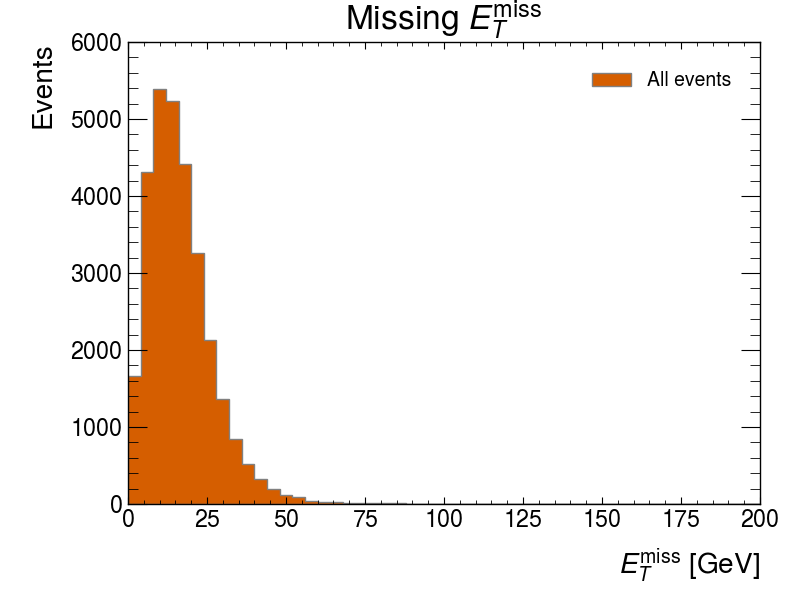
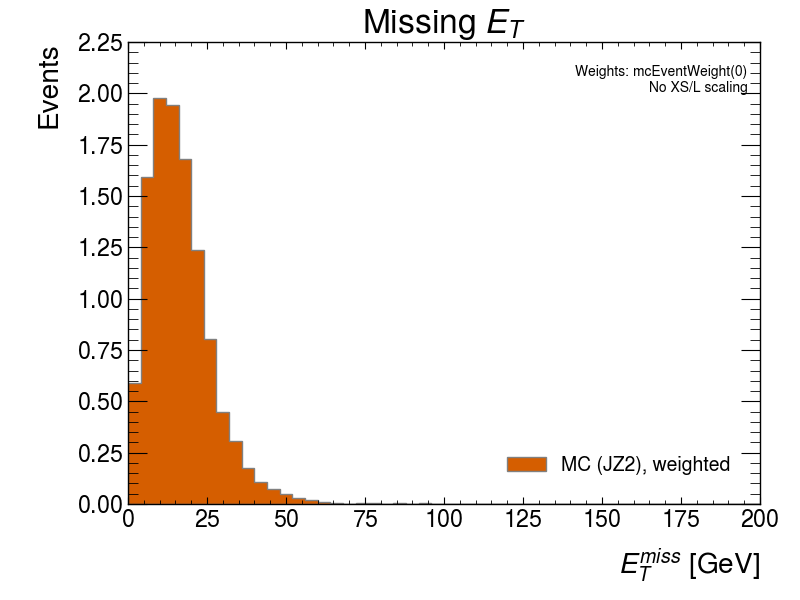
Update 00-missing-et and images from CI

diff --git a/00-missing-et.md b/00-missing-et.md
@@ -1,0 +1,205 @@
+# Plot the ETmiss of all events in the rucio dataset mc23_13p6TeV:mc23_13p6TeV.801167.Py8EG_A14NNPDF23LO_jj_JZ2.deriv.DAOD_PHYSLITE.e8514_e8528_a911_s4114_r15224_r15225_p6697.
+
+## Model gpt-5
+
+<details><summary>Run 1</summary>
+<div style="margin-left: 1em;">
+
+
+- Fetched only the quantities needed (missing transverse energy and MC event weight) from the requested Rucio dataset using ServiceX, converting MeV to GeV inside the query.
+- Used Awkward Array to hold and manipulate the returned data (no Python lists).
+- Applied per-event MC weights (EventInfo.mcEventWeight(0)) when filling the histogram. No cross section or luminosity scaling was applied since only a single MC dataset was requested.
+- Plotted the ETmiss distribution with Hist/mplhep and saved it to a PNG file.
+- Processed only 1 file (NFiles=1) to keep turnaround fast; you can increase this when ready.
+
+```python
+import awkward as ak
+import matplotlib.pyplot as plt
+import mplhep as hep
+from hist import Hist
+
+from func_adl_servicex_xaodr25 import FuncADLQueryPHYSLITE
+from servicex_analysis_utils import to_awk
+from servicex import deliver, ServiceXSpec, Sample, dataset
+
+# Build the query against PHYSLITE:
+# - Convert MeV -> GeV in the query (divide by 1000.0)
+base_query = FuncADLQueryPHYSLITE()
+query = (
+    base_query
+    .Select(lambda e: {
+        "met": e.MissingET().First().met() / 1000.0,
+        "mcw": e.EventInfo("EventInfo").mcEventWeight(0),
+    })
+)
+
+# Dataset DID provided by the user (copy carefully!)
+ds_name = (
+    "mc23_13p6TeV:mc23_13p6TeV.801167.Py8EG_A14NNPDF23LO_jj_JZ2.deriv."
+    "DAOD_PHYSLITE.e8514_e8528_a911_s4114_r15224_r15225_p6697"
+)
+
+# Deliver the data (use NFiles=1 for a quick turn-around)
+results = to_awk(
+    deliver(
+        ServiceXSpec(
+            Sample=[
+                Sample(
+                    Name="etmiss_fetch",
+                    Dataset=dataset.Rucio(ds_name),
+                    NFiles=1,
+                    Query=query,
+                )
+            ]
+        ),
+    )
+)
+
+data = results["etmiss_fetch"]
+
+# Awkward arrays holding the event-level ETmiss and per-event MC weight
+met = data.met     # [GeV]
+mcw = data.mcw     # per-event MC weight
+
+# Build a weighted histogram for ETmiss
+# Binning & range chosen as a reasonable default for MET
+h = (
+    Hist.new
+        .Reg(50, 0.0, 200.0, name="met", label=r"$E_T^{miss}$ [GeV]")
+        .Weight()
+)
+
+# Fill with weights; convert to NumPy for Hist backend while staying array-based (no Python lists)
+h.fill(met=ak.to_numpy(met), weight=ak.to_numpy(mcw))
+
+# Plot using ATLAS-like style
+plt.style.use(hep.style.ATLAS)
+fig, ax = plt.subplots()
+
+h.plot(histtype="fill", linewidth=1, edgecolor="gray", label="MC (JZ2), weighted")
+ax.legend()
+ax.set_xlabel(r"$E_T^{miss}$ [GeV]")
+ax.set_ylabel("Events")
+ax.set_title(r"Missing $E_T$")
+
+# Optional: annotate what weights were applied
+ax.text(
+    0.98, 0.95,
+    "Weights: mcEventWeight(0)\nNo XS/L scaling",
+    transform=ax.transAxes,
+    ha="right", va="top", fontsize=10
+)
+
+fig.savefig("etmiss.png")
+plt.close(fig)
+```
+### stdout:
+
+```text
+etmiss_fetch: Transform ━━━━━━━━━━━━━━━━━━━━━━━━━━━━━━━━━━━━━━━━ 1/1 00:21
+               Download ━━━━━━━━━━━━━━━━━━━━━━━━━━━━━━━━━━━━━━━━ 1/1 00:25
+**Success**
+
+```
+
+### stderr:
+
+```text
+Unable to find image 'gordonwatts/atlasplotagent:1.0.0' locally
+1.0.0: Pulling from gordonwatts/atlasplotagent
+59e22667830b: Pulling fs layer
+0f40319da806: Pulling fs layer
+081f96d6584f: Pulling fs layer
+8fdd7df8e834: Pulling fs layer
+2a1478e0415a: Pulling fs layer
+235451d01566: Pulling fs layer
+a0831920243c: Pulling fs layer
+4f4fb700ef54: Pulling fs layer
+ce8f13a8c0b6: Pulling fs layer
+8f2cf14ad14d: Pulling fs layer
+660b8664e6e1: Pulling fs layer
+eb522b4f7276: Pulling fs layer
+235451d01566: Waiting
+a0831920243c: Waiting
+4f4fb700ef54: Waiting
+ce8f13a8c0b6: Waiting
+660b8664e6e1: Waiting
+8f2cf14ad14d: Waiting
+8fdd7df8e834: Waiting
+2a1478e0415a: Waiting
+eb522b4f7276: Waiting
+0f40319da806: Verifying Checksum
+0f40319da806: Download complete
+081f96d6584f: Verifying Checksum
+081f96d6584f: Download complete
+8fdd7df8e834: Verifying Checksum
+8fdd7df8e834: Download complete
+2a1478e0415a: Verifying Checksum
+2a1478e0415a: Download complete
+59e22667830b: Verifying Checksum
+59e22667830b: Download complete
+a0831920243c: Verifying Checksum
+a0831920243c: Download complete
+4f4fb700ef54: Download complete
+ce8f13a8c0b6: Verifying Checksum
+ce8f13a8c0b6: Download complete
+660b8664e6e1: Verifying Checksum
+660b8664e6e1: Download complete
+eb522b4f7276: Download complete
+235451d01566: Verifying Checksum
+235451d01566: Download complete
+8f2cf14ad14d: Verifying Checksum
+8f2cf14ad14d: Download complete
+59e22667830b: Pull complete
+0f40319da806: Pull complete
+081f96d6584f: Pull complete
+8fdd7df8e834: Pull complete
+2a1478e0415a: Pull complete
+235451d01566: Pull complete
+a0831920243c: Pull complete
+4f4fb700ef54: Pull complete
+ce8f13a8c0b6: Pull complete
+8f2cf14ad14d: Pull complete
+660b8664e6e1: Pull complete
+eb522b4f7276: Pull complete
+Digest: sha256:50780f1eaa7c0986e2e395adf88e50acb6e449689144926f8bd0942460f8d20a
+Status: Downloaded newer image for gordonwatts/atlasplotagent:1.0.0
+bash: cannot set terminal process group (-1): Inappropriate ioctl for device
+bash: no job control in this shell
+/work/.venv/lib/python3.13/site-packages/func_adl_servicex_xaodr25/trigger.py:127: SyntaxWarning: invalid escape sequence '\D'
+  object. Close match is done as a function of $\Delta R < `dr`$.
+
+```
+
+
+</div></details>
+
+
+![2fc7e91d_gpt-5_etmiss.png](img/2fc7e91d_gpt-5_etmiss.png)
+<details><summary>Usage</summary>
+<div style="margin-left: 1em;">
+
+
+### LLM Usage
+| Step | Time (sec) | Prompt Tokens | Completion Tokens | Total Tokens | Cost (USD) |
+|---|---|---|---|---|---|
+| Run 1 | 55.44 | 14646 | 2838 | 17484 | $0.05 |
+| **Total** | 55.44 | 14646 | 2838 | 17484 | $0.047 |
+
+### Docker Usage
+| Phase | Elapsed Time (seconds) |
+|-------|--------------|
+| Run 1 | 43.41 |
+| **Total** | **43.41** |
+
+</div></details>
+
+
+## CSV
+
+Model,Time,PromptTokens,CompletionTokens,TotalTokens,EstimatedCost,Attempts,CodeTime,Result
+gpt-5,55.44,14646,2838,17484,0.047,1,43.41,Success
+## Summary
+| Model | Time | Prompt Tokens | Completion Tokens | Total Tokens | Estimated Cost | Attempts | Code Time | Result |
+|-----|----|-------------|-----------------|------------|--------------|--------|---------|------|
+| gpt-5 | 55.44 | 14646 | 2838 | 17484 | $0.047 | 1 | 43.41 | Success |
